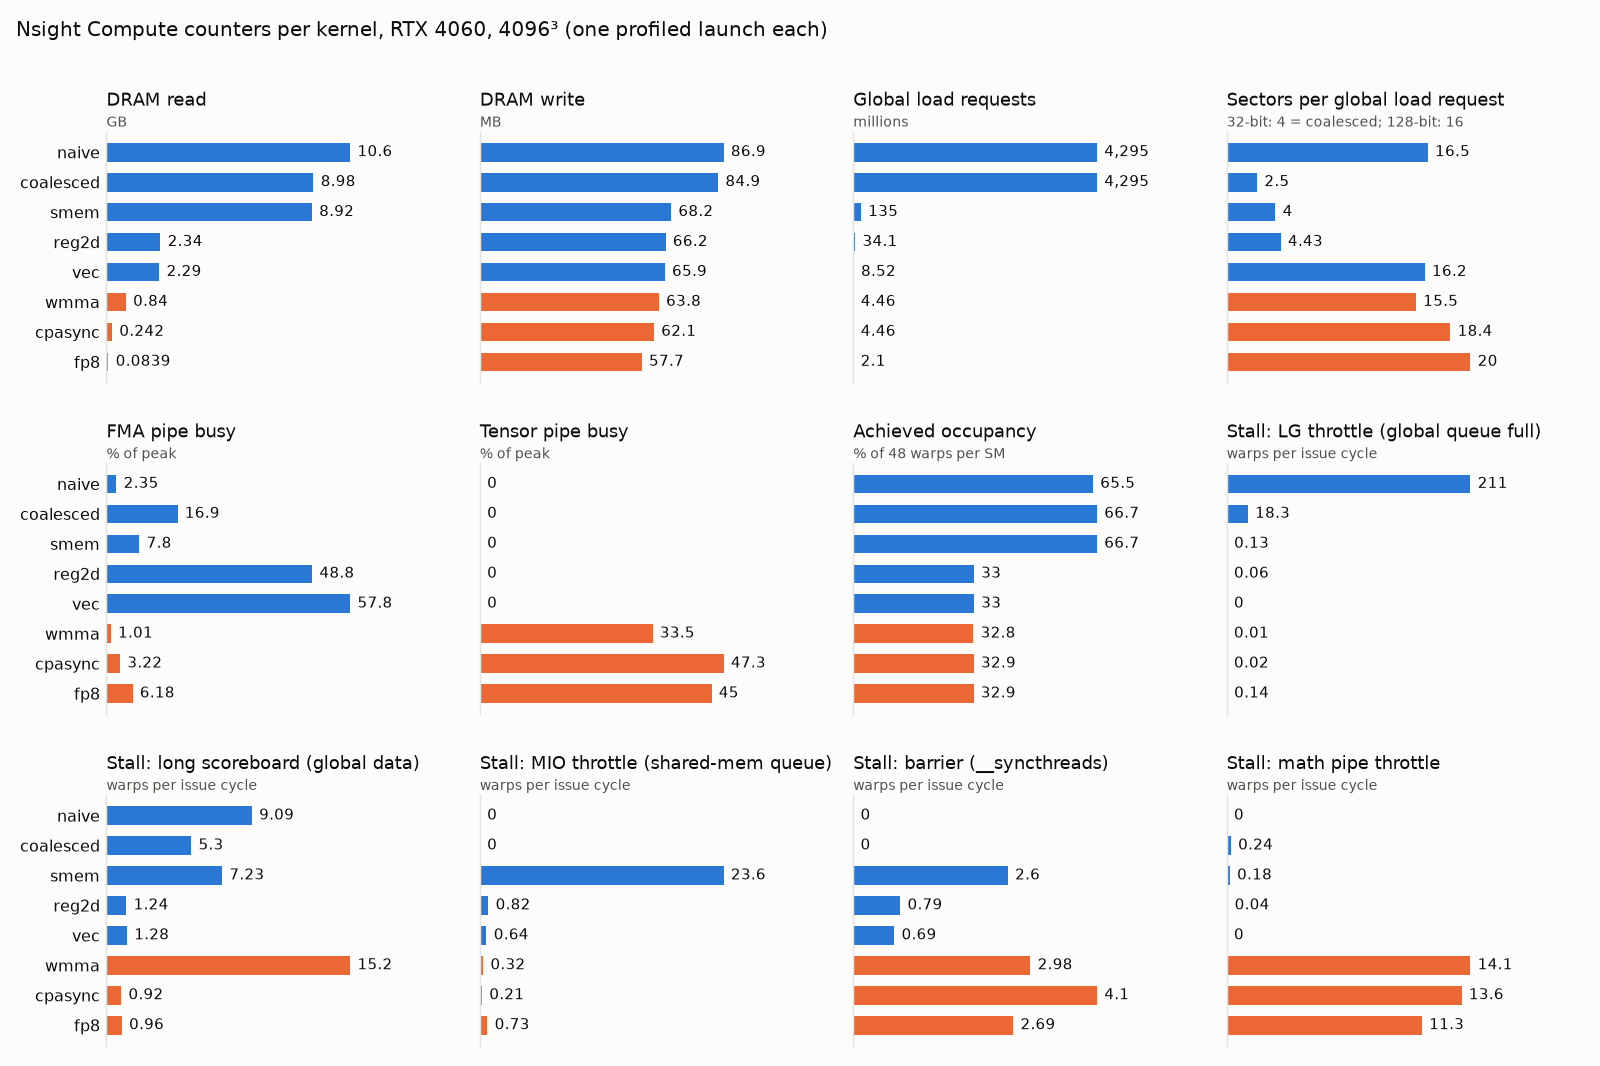
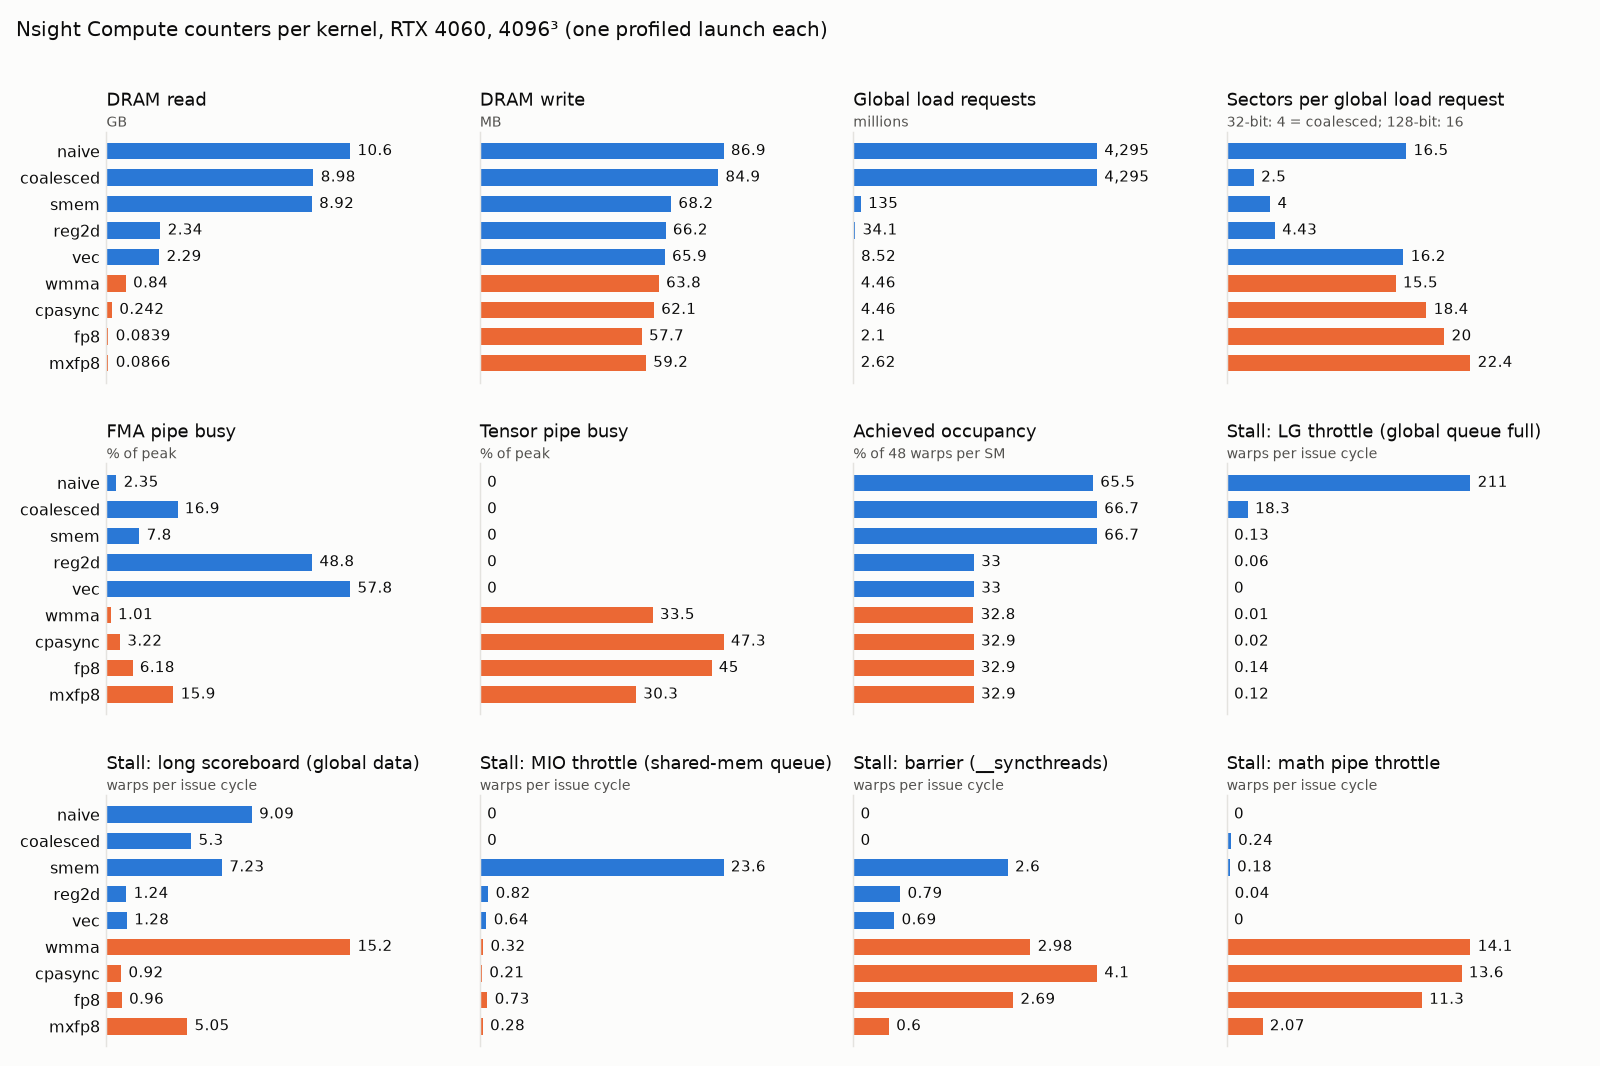
Record MX results and write step 9 notes

diff --git a/docs/gpu-vs-tile.md b/docs/gpu-vs-tile.md
@@ -1,32 +1,31 @@
 # GPU vs custom tile
 
-The [openroad-chip-lab](https://github.com/NicholasUnruh/openroad-chip-lab) numerics study designs one dot-product unit per number format and ranks them by throughput per mm² and energy per MAC. This page puts the same formats on a real GPU.
+The [openroad-chip-lab](https://github.com/NicholasUnruh/openroad-chip-lab) numerics study designs one dot-product unit per number format and ranks them by throughput per mm². This page puts the same formats on a real GPU.
 
-**What kind of number each is.** GPU figures are **measured** on an RTX 4060 (this repository, `docs/results/`). chip-lab figures are **predictive**: routed ASAP7 layouts, a predictive 7 nm PDK, so they compare design points with each other and are never foundry numbers. The two are compared only as ratios to each side's own BF16 baseline.
+**What kind of number each is.** GPU figures are **measured** on an RTX 4060 ([rtx4060.csv](results/rtx4060.csv), medians of three at 4096³). chip-lab figures are **predictive**: routed layouts in ASAP7, a predictive 7 nm PDK, never foundry numbers. Each side is compared only as ratios to its own 16-bit baseline.
 
-## Throughput relative to BF16
+## Throughput relative to 16-bit
 
-| Format | GPU TFLOP/s, 4096³ | GPU × BF16 | chip-lab unit | chip-lab GMAC/s/mm² × BF16 |
+| Format | GPU TFLOP/s | GPU ratio | chip-lab unit | chip-lab GMAC/s/mm² ratio |
 |---|---:|---:|---|---:|
-| BF16 | 28.2 (cuBLAS) | 1.00 | `dot8_bf16` | 1.00 |
-| FP8 E4M3, per tensor | 57.8 (step 8) | 2.05 | `dot8_e4m3` | 1.64 |
-| MXFP8 | MXFP8_TF (step 9) | MXFP8_X | `dot32_mxfp8` | 2.17 |
-| MXFP4 | MXFP4_TF (emulated) | MXFP4_X | `dot32_mxfp4` | 5.86 |
+| 16-bit | 30.2 (cuBLAS FP16) | 1.00 | `dot8_bf16` | 1.00 |
+| FP8 E4M3, per tensor | 57.8 (step 8) | 1.91 | `dot8_e4m3` | 1.64 |
+| MXFP8 | 37.9 (step 9) | 1.25 | `dot32_mxfp8` | 2.17 |
+| MXFP4 | 39.1 (emulated) | 1.29 | `dot32_mxfp4` | 5.86 |
 
-GPU sources: [numerics](results/numerics-rtx4060.csv) (BF16), [rtx4060.csv](results/rtx4060.csv) (FP8, MXFP8, MXFP4, medians of three). chip-lab source: its `docs/numerics-results.md`.
+The GPU baseline is cuBLAS FP16 with FP32 accumulation, the reference column of the `cpasync` rows. Ada's whitepaper gives BF16 and FP16 the same tensor rate. MXFP4 runs the MXFP8 kernel, so its 3% lead is run-to-run spread. chip-lab source: its `docs/numerics-results.md`.
 
 ## What the comparison shows
 
-1. **Per-tensor FP8 pays off on both.** On the GPU, cuBLASLt FP8 runs at about 2× cuBLAS FP16 (61 against 30 TFLOP/s), and the step-8 kernel gets 2.05× BF16. chip-lab's FP8 and BF16 dot8 units both do 8 MACs per clock, so its 1.64× comes from smaller area per MAC (117 against 165 µm²) and a higher fmax.
-2. **MX block scaling is cheap in silicon and expensive in software.** chip-lab's best point is the 32-term MXFP8 unit: one exponent add per 32 MACs, folded into the alignment. Ada has no block-scaled MMA, so each 32-deep partial sum leaves the tensor core and is rescaled in FP32. That turns MXFP8 from the best format per mm² into one slower than per-tensor FP8. Blackwell's PTX adds block-scaled MMA (`.block_scale`), the hardware answer to this cost; it is not tested here.
-3. **FP4 needs FP4 hardware.** chip-lab predicts 5.86× for an MXFP4 unit. On Ada, FP4 data still runs on FP8 tensor cores (E2M1 values re-encoded as E4M3), so it costs the MXFP8 rate and buys only storage. Its accuracy matches chip-lab's model: MXFP4_ERR median error at K = 4096 (Gaussian), against 2.6e-3. In chip-lab's training study, MXFP4 fails the 1% loss gate.
-4. **Accumulators are narrower than the study assumed.** chip-lab sweeps BF16 alignment frames from 24 to 40 bits and finds 24 enough. The GPU's FP8 adder keeps about 14 bits ([step 8](steps/8-fp8.md)), and FP32 promotion every 64-deep K tile is what makes it accurate. A custom FP8 unit can use a narrow frame if the design budgets for promotion.
+1. **Per-tensor FP8 pays off on both.** cuBLASLt FP8 runs at about 2× cuBLAS FP16 (61 against 30 TFLOP/s). chip-lab's FP8 and BF16 dot8 units both do 8 MACs per clock, so its 1.64× comes from less area per MAC (117 against 165 µm²) and a higher fmax.
+2. **MX block scaling is cheap in silicon and expensive in software.** chip-lab's MXFP8 unit adds one exponent per 32 MACs. Ada has no block-scaled MMA, so every 32-deep partial sum is rescaled in FP32 registers, and the best format per mm² becomes slower than per-tensor FP8. Blackwell's block-scaled MMA (`.block_scale` in PTX) is the hardware answer; it is not tested here.
+3. **FP4 needs FP4 hardware.** chip-lab predicts 5.86× for MXFP4. On Ada, E2M1 values still run on FP8 tensor cores, so FP4 costs the MXFP8 rate and saves only storage. Its error matches chip-lab's model: 2.60e-3 median at K = 4096 (Gaussian), against 2.6e-3. In chip-lab's training study, MXFP4 fails the 1% loss gate.
+4. **Accumulators are narrower than the study assumed.** chip-lab sweeps BF16 alignment frames from 24 to 40 bits and finds 24 enough. The GPU's FP8 adder keeps about 14 bits ([step 8](steps/8-fp8.md)); FP32 promotion every 64-deep K tile makes it accurate. A custom FP8 unit can do the same.
 
 ## Accuracy is the same on both
 
-On chip-lab's 2,000 test vectors, the GPU's error matches chip-lab's bit-exact C++ models to two digits for BF16, per-tensor FP8, MXFP8 and MXFP4 ([step 9](steps/9-mx.md)). The formats' error comes from input rounding, which both sides model identically. The GPU's accumulator matters only without promotion.
-
+On chip-lab's 2,000 test vectors, GPU error matches chip-lab's bit-exact C++ models to two digits for BF16, per-tensor FP8, MXFP8 and MXFP4 ([step 9](steps/9-mx.md)).
 ## Not compared
 
-- **Energy.** Board power reads N/A through `nvidia-smi` on this RTX 4060 (Windows and WSL2), so GPU energy per MAC is not measured. chip-lab's energies come from zero-delay simulation and are themselves low by an unknown factor.
-- **Absolute density.** GPU area per tensor core is not public. Only ratios are compared.
+- **Energy.** Board power reads N/A through `nvidia-smi` on this RTX 4060 (Windows and WSL2), so GPU energy per MAC is not measured. chip-lab's energies come from zero-delay simulation and are low by an unknown factor.
+- **Absolute density.** GPU area per tensor core is not public.

diff --git a/docs/steps/9-mx.md b/docs/steps/9-mx.md
@@ -1,40 +1,45 @@
 # Step 9: MX block scaling (MXFP8, MXFP4, NVFP4)
 
-Source: [src/fp8.cu](../../src/fp8.cu) (`mxfp8_kernel`), [src/quant.cu](../../src/quant.cu). RTX 4060, 4096³: MXFP8 MXFP8_GF GFLOPS, MXFP8_PCT% of per-tensor cuBLASLt FP8, MXFP8_VS_FP8% of step 8.
+Source: [src/fp8.cu](../../src/fp8.cu) (`mxfp8_kernel`), [src/quant.cu](../../src/quant.cu). RTX 4060, 4096³: MXFP8 37,856 GFLOPS, 65.5% of per-tensor cuBLASLt FP8 and of step 8.
 
 ## What changed
 
-OCP MX gives every 32 consecutive elements along K a shared power-of-two scale (E8M0, one byte), then stores the elements in E4M3 (MXFP8) or E2M1 (MXFP4). chip-lab's numerics study ranks a 32-term MXFP8 unit as its best training datapath per mm². The question here is what MX costs on a GPU without MX hardware.
+OCP MX gives every 32 elements along K a power-of-two scale (E8M0); elements are E4M3 (MXFP8) or E2M1 (MXFP4). chip-lab ranks a 32-term MXFP8 unit best per mm². What does MX cost on a GPU without MX hardware?
 
-One `m16n8k32` MMA covers exactly one 32-element block of A and of B. The kernel therefore takes each MMA's partial sum out of a fresh accumulator and adds it into FP32 as `acc += p · 2^(sa + sb − 254)`: one FMUL and one FFMA per output element per MMA. Step 8 adds once per 64-deep K tile instead. Each thread loads its row's two scale bytes one tile ahead from global memory, and they sit in shared memory beside the operands.
+One `m16n8k32` MMA covers exactly one block of A and of B. Each MMA's partial sum `p` comes from a fresh accumulator and is added into FP32 as `p · 2^(sa + sb − 254)`. Step 8 adds once per 64-deep K tile.
 
 ## Cost of scaling
 
 | Kernel, 4096³ | TFLOP/s | FP32 work per MMA |
 |---|---:|---|
-| `fp8`, promotion per 64-deep tile (step 8) | 57.8 | 2 FADD |
-| `fp8`, promotion after every MMA ([ablation](../results/fp8-promotion.csv)) | 47.6 | 4 FADD |
-| `mxfp8` | MXFP8_TF | 4 FMUL + 4 FFMA |
+| `fp8`, promote per 64-deep tile (step 8) | 57.8 | 2 FADD |
+| `fp8`, promote per MMA ([ablation](../results/fp8-promotion.csv)) | 47.6 | 4 FADD |
+| `mxfp8` | 37.9 | 4 FMUL + 4 FFMA |
 
-Profile: PROFILE_SENTENCE
+Per-MMA promotion costs half; scale multiplies the rest. The first build needed 182 registers, one block per SM. `__launch_bounds__(256, 2)` caps it at 128 (148 bytes spilled) for two blocks, 8.9% faster ([ablation](../results/mxfp8-occupancy.csv)). ncu: tensor pipe 30% busy (step 8: 45%), 310 M instructions against 109 M, long-scoreboard stalls on top ([SASS](../results/mxfp8-sass.txt): 32 QMMA, 248 FMUL, 192 FFMA).
 
 ## Accuracy
 
-Median / p99 error on chip-lab's vectors at K = 4096 ([results](../results/numerics-rtx4060.csv), [chip-lab](../results/chiplab-gemm-error.csv)):
+Median / p99 error on chip-lab's vectors, K = 4096, Gaussian ([all distributions](../results/numerics-rtx4060.csv), [chip-lab](../results/chiplab-gemm-error.csv)):
 
-ACC_TABLE
+| Format | GPU | chip-lab model |
+|---|---|---|
+| FP8, per tensor | 6.22e-4 / 2.32e-3 | 6.2e-4 / 2.3e-3 |
+| MXFP8 | 6.94e-4 / 2.62e-3 | 7.0e-4 / 2.6e-3 |
+| MXFP4 | 2.60e-3 / 1.05e-2 | 2.6e-3 / 1.1e-2 |
+| NVFP4 | 2.26e-3 / 8.14e-3 | not modelled |
 
-The GPU reproduces chip-lab's bit-exact models to two digits, so the formats behave identically in silicon and on the GPU. On these distributions MXFP8 is slightly less accurate than per-tensor FP8 (chip-lab finds the same ordering): E4M3's own exponent already covers the row-scaled data, so the block scale buys range that is not needed. MX's rule maps each block maximum into [256, 512), and values above 448 saturate.
+The GPU matches chip-lab's bit-exact models on all four distributions. MXFP8 is slightly worse than per-tensor FP8, as chip-lab also finds: E4M3's exponent already covers this data, and MX's power-of-two rule wastes headroom.
 
-## FP4 on a GPU without FP4 tensor cores
+## FP4 without FP4 tensor cores
 
-- **MXFP4** codes are re-encoded as the same values in E4M3 (`e2m1_to_e4m3`) and run through `mxfp8_kernel` with the MXFP4 scales. The bench row `mxfp4` therefore runs at the MXFP8 rate. Its error against the exact reference is 0. That fits the probe of step 8: E2M1 products are multiples of 2⁻³ no larger than 36, so a 32-term sum (under 2¹¹) loses nothing to an adder that keeps 13 bits below the leading bit.
-- **NVFP4** (E2M1 elements, an E4M3 scale per 16, an FP32 scale per tensor) cannot use a k32 FP8 MMA, because one MMA would span two scales. Each element times its block scale has at most 6 significant bits within 2⁻¹⁰..2688, so it is exact in FP16. The emulation decodes to FP16 and runs cuBLAS FP16 GEMM.
+- **MXFP4** codes are re-encoded exactly as E4M3 and run through `mxfp8_kernel` at the MXFP8 rate. Error against the exact reference is 0, as step 8's probe predicts: E2M1 products are multiples of 2⁻³ up to 36, so 32-term sums fit the adder's 14 bits.
+- **NVFP4** (E4M3 scale per 16) cannot use a k32 MMA, which would span two scales. Scaled elements (6 significant bits, 2⁻¹⁰..2688) are exact in FP16, so the emulation decodes and runs cuBLAS FP16.
 
 ## Cost of quantizing
 
-QUANT_SENTENCE
+Both 4096² operands, as a share of the format's GEMM ([cost block](../results/numerics-rtx4060.csv), one run): MXFP8 0.67 ms (19%). Per-tensor FP8 1.30 ms (48%), since it needs an amax pass. MXFP4 0.89 ms. NVFP4 4.95 ms (116%) with its FP16 decode: more accurate than MXFP4, but on Ada the emulation costs more than the GEMM.
 
 ## Verification
 
-The quantizers match chip-lab's C++ references (and mx-training's NVFP4 contract) byte for byte on 27 million elements ([cross-check](../results/quant-crosscheck.csv)). `bench mxfp8` and `bench mxfp4` check every output against exact FP64 dot products of the codes with their scales (tolerance 1e-3). Process notes: [journal](../journal/2026-11-12-mx.md).
+Quantizers match chip-lab's C++ byte for byte on 27 M elements ([cross-check](../results/quant-crosscheck.csv)); `bench mxfp8` and `bench mxfp4` check every output against exact FP64 dot products. [Journal](../journal/2026-11-12-mx.md).

diff --git a/docs/journal/2026-11-12-mx.md b/docs/journal/2026-11-12-mx.md
@@ -33,11 +33,30 @@ per MMA, per output:   p = Σ32 a·b (tensor core)      acc += p · 2^sa · 2^sb
 
 ## Output
 
-OUTPUT_BLOCK
+```
+4096^3, medians of three        GFLOPS   % cuBLASLt FP8 (per tensor)
+fp8 (step 8)                    57,778   93.3
+mxfp8, 182 registers, 1 block   35,467   59.6     (ablation run)
+mxfp8, 128 registers, 2 blocks  37,856   65.5
+mxfp4 (E2M1 as E4M3)            39,060   61.3     error vs exact: 0
+
+K = 4096, Gaussian, median / p99    GPU                  chip-lab model
+MXFP8                               6.94e-4 / 2.62e-3    7.0e-4 / 2.6e-3
+MXFP4                               2.60e-3 / 1.05e-2    2.6e-3 / 1.1e-2
+NVFP4                               2.26e-3 / 8.14e-3    (not modelled)
+
+Quantize both operands / GEMM, one run:  MXFP8 19%   FP8 48%   NVFP4 116%
+```
+
+Sources: [rtx4060.csv](../results/rtx4060.csv), [mxfp8-occupancy.csv](../results/mxfp8-occupancy.csv), [numerics-rtx4060.csv](../results/numerics-rtx4060.csv). Figure: `uv run scripts/journal_mx.py docs/journal/img/mx.png`.
 
 ## Result
 
-RESULT_BULLETS
+- **Accuracy reproduces.** Every format lands on chip-lab's bit-exact model, so the GPU confirms the study's error figures on real hardware.
+- **MX costs a third of FP8's throughput on Ada.** Scaling each 32-deep partial sum in FP32 takes MXFP8 from 57.8 to 37.9 TFLOP/s. Half is promotion after every MMA, half the scale multiplies. In chip-lab's silicon the same scaling is one exponent add per 32 MACs.
+- **Registers were the first bottleneck.** The scale epilogue pushed the kernel to 182 registers and one block per SM. Capping at 128 (148 bytes spilled) was 8.9% faster: spills are cheaper here than a half-empty SM.
+- **FP4 buys nothing but storage without FP4 tensor cores.** MXFP4 runs at the MXFP8 rate. NVFP4 is the most accurate 4-bit format here, but its emulation (decode to FP16) costs more than the GEMM itself.
+- **Negative result:** board power reads N/A on this GPU, so the energy half of chip-lab's ranking has no GPU counterpart.
 
 ## Next
 

diff --git a/README.md b/README.md
@@ -12,8 +12,9 @@ Matrix multiply in CUDA, built step by step from a naive kernel to tensor cores,
 | 6 | [`wmma`](docs/steps/6-wmma.md) | Tensor cores (FP16 in, FP32 accumulate) | 20,731 | 65.3 |
 | 7 | [`cpasync`](docs/steps/7-cpasync.md) | `cp.async` double buffering, grouped block order | 28,823 | 95.3 |
 | 8 | [`fp8`](docs/steps/8-fp8.md) | FP8 (E4M3) `mma.sync`, FP32 promotion per K tile | 57,778 | 93.3 |
+| 9 | [`mxfp8`](docs/steps/9-mx.md) | MX block scaling: E8M0 scale per 32 elements, applied in FP32 | 37,856 | 65.5 |
 
-Measured on an RTX 4060 (sm_89, CUDA 13.3), median of three runs ([raw](docs/results/rtx4060.csv)). `wmma` and `cpasync` are compared with FP16-input cuBLAS, `fp8` with cuBLASLt FP8.
+Measured on an RTX 4060 (sm_89, CUDA 13.3), median of three runs ([raw](docs/results/rtx4060.csv)). `wmma` and `cpasync` are compared with FP16-input cuBLAS, `fp8` and `mxfp8` with per-tensor cuBLASLt FP8 (cuBLASLt has no MX scaling on Ada).
 
 ![Roofline of every kernel on the RTX 4060](docs/roofline.png)
 
@@ -51,7 +52,8 @@ make bench ARCH=sm_89 KERNEL=vec  # on a GPU: time, GFLOPS, % cuBLAS, error as C
 ## Results and verification
 
 - Every run checks `max_rel_err` and fails above 1e-4 (FP32) or 1e-3 (FP16, FP8; FP8 against exact dot products).
-- On chip-lab's test distributions, GPU FP8 and BF16 error match its bit-exact C++ models ([step 8](docs/steps/8-fp8.md)).
+- On chip-lab's test distributions, GPU error for BF16, FP8, MXFP8 and MXFP4 matches its bit-exact C++ models ([step 8](docs/steps/8-fp8.md), [step 9](docs/steps/9-mx.md)).
+- [GPU vs custom tile](docs/gpu-vs-tile.md): measured GPU throughput per format against chip-lab's predictive ASAP7 tile figures. MX scaling, cheap in silicon, costs a third of FP8 throughput on Ada.
 - Running, profiling and plots: [docs/running.md](docs/running.md).
 
 ## Limitations

diff --git a/docs/running.md b/docs/running.md
@@ -10,7 +10,7 @@ The README numbers come from an RTX 4060 (sm_89, CUDA 13.3, WSL2):
 make bench ARCH=sm_89 KERNEL=vec
 ```
 
-`bench` times each size against cuBLAS on the same inputs and prints CSV: milliseconds, GFLOPS, % of cuBLAS and `max_rel_err`. It exits non-zero when the error exceeds the tolerance (1e-4 for FP32 kernels, 1e-3 for the FP16-input `wmma` and `cpasync`). For `fp8` the reference is the exact FP64 dot product of the same E4M3 codes, tolerance 1e-3; a comment line gives cuBLASLt FP8's error against the same reference.
+`bench` times each size against cuBLAS on the same inputs and prints CSV: milliseconds, GFLOPS, % of cuBLAS and `max_rel_err`. It exits non-zero when the error exceeds the tolerance (1e-4 for FP32 kernels, 1e-3 for the FP16-input `wmma` and `cpasync`). For `fp8` the reference is the exact FP64 dot product of the same E4M3 codes, tolerance 1e-3; a comment line gives cuBLASLt FP8's error against the same reference. `mxfp8` and `mxfp4` (E2M1 values run through the MXFP8 kernel) use the same reference with each block's scales applied.
 
 Time only when `nvidia-smi` shows the GPU idle; other work on the GPU slows cuBLAS and the kernel unevenly. Raw runs are in [results/rtx4060.csv](results/rtx4060.csv).
 

diff --git a/docs/journal/2026-11-12-fp8.md b/docs/journal/2026-11-12-fp8.md
@@ -53,7 +53,7 @@ BF16, Gaussian                              3.62e-5 / 1.40e-4  3.6e-5 / 1.4e-4
 
 - The accuracy loss was the hardware adder, not the format, as DeepSeek-V3 found on Hopper. New here: the Ada measurement and the cost curve. Promotion every 64-deep tile removes the loss at no measured cost; promotion after every MMA costs 15%.
 - With promotion, GPU error on chip-lab's distributions matches the bit-exact C++ model to two digits. At K = 4096 the error is input rounding.
-- Quantizing both 4096 x 4096 operands costs 1.25 ms against 2.41 ms of GEMM. Standalone quantization is memory-bound and would need fusing.
+- Quantizing both 4096 x 4096 operands costs 1.30 ms against 2.68 ms of GEMM. Standalone quantization is memory-bound and would need fusing.
 - The tensor pipe is 45% busy, as in step 7; cuBLASLt also stops near 61–63 TFLOP/s.
 
 ## Next

diff --git a/docs/steps/8-fp8.md b/docs/steps/8-fp8.md
@@ -38,7 +38,7 @@ The GPU matches the bit-exact C++ model to two digits: at this K, input rounding
 
 ## Cost of quantizing
 
-Quantizing both 4096² operands takes 1.25 ms against 2.41 ms of GEMM (52%). The pass is memory-bound: it reads the FP32 inputs twice (amax, then convert). Training would fuse it into the producing kernel.
+Quantizing both 4096² operands takes 1.30 ms against 2.68 ms of GEMM (48%). The pass is memory-bound: it reads the FP32 inputs twice (amax, then convert). Training would fuse it into the producing kernel.
 
 ## What limits it now
 
